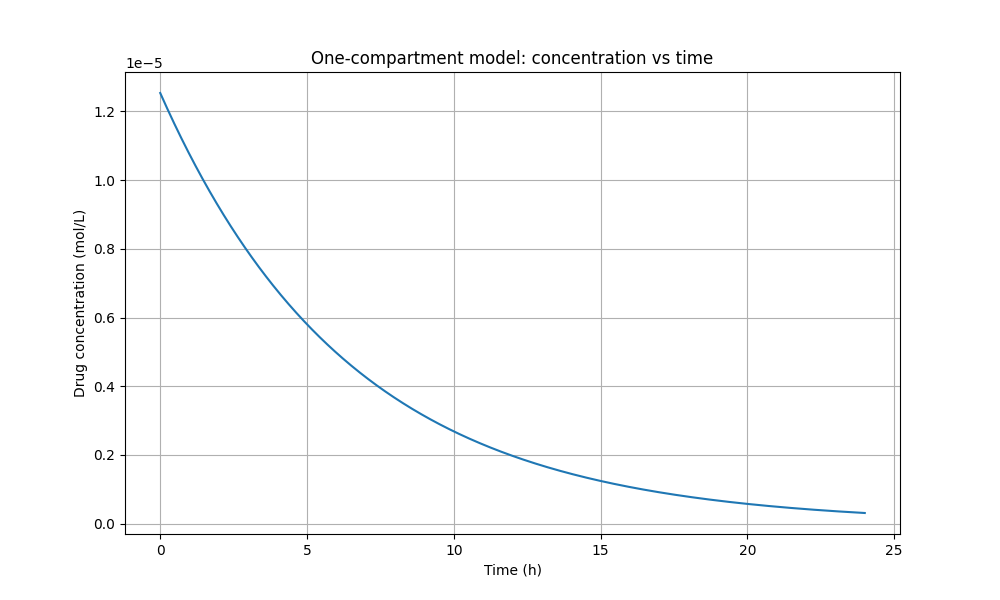
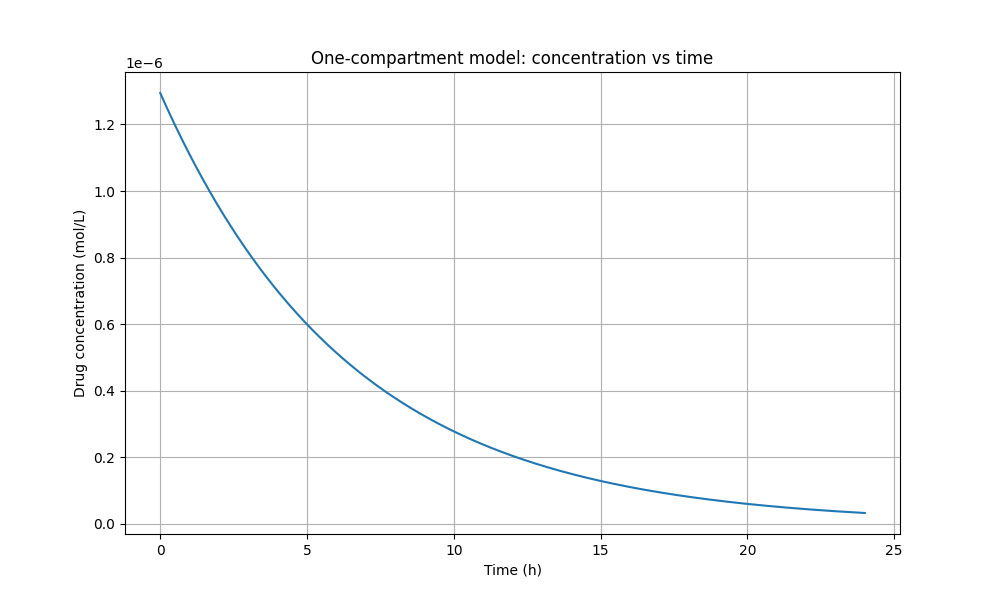
MDPCYPの1コンパートメント

diff --git a/MDPCYPの1コンパートメントモデルのグラフ.py b/MDPCYPの1コンパートメントモデルのグラフ.py
@@ -1,0 +1,47 @@
+import numpy as np
+import matplotlib.pyplot as plt
+from scipy.integrate import trapz  # AUCを求めるための関数
+
+def one_compartment_model(dose_mg, BA, weight_kg, Vd_L, half_life_h, MW, t_end=24, num_points=1000):
+    k_el = np.log(2) / half_life_h  # 排泄定数（h^-1）
+
+    # 投与量をモル単位に変換し、バイオアベイラビリティを考慮
+    dose_mol = dose_mg * BA / MW * 1e-3  # モル単位への変換（mol）
+
+    # 初期濃度（モル/L）
+    C0_mol_per_L = dose_mol / Vd_L
+
+    # 時間範囲を設定
+    t = np.linspace(0, t_end, num_points)  # 時間（h）
+
+    # 1コンパートメントモデルの濃度-時間曲線を計算
+    C_mol_per_L = C0_mol_per_L * np.exp(-k_el * t)
+    
+    return t, C_mol_per_L
+
+def plot_and_save(t, C_mol_per_L, filename='one_compartment_model.png'):
+    plt.figure(figsize=(10, 6))
+    plt.plot(t, C_mol_per_L)
+    plt.xlabel('Time (h)')
+    plt.ylabel('Drug concentration (mol/L)')
+    plt.title('One-compartment model: concentration vs time')
+    plt.grid(True)
+    plt.savefig(filename)
+    plt.show()
+
+def calculate_auc(t, C_mol_per_L):
+    AUC = trapz(C_mol_per_L, t)
+    return AUC
+
+if __name__ == "__main__":
+    dose_mg = 15
+    BA = 0.98  # バイオアベイラビリティ
+    weight_kg = 60
+    Vd_L = 36
+    half_life_h = 4.5
+    MW = 315.41  # 分子量
+    
+    t, C_mol_per_L = one_compartment_model(dose_mg, BA, weight_kg, Vd_L, half_life_h, MW)
+    plot_and_save(t, C_mol_per_L)
+    AUC = calculate_auc(t, C_mol_per_L)
+    print(f"The Area Under the Curve (AUC) is {AUC} mol*h/L")
